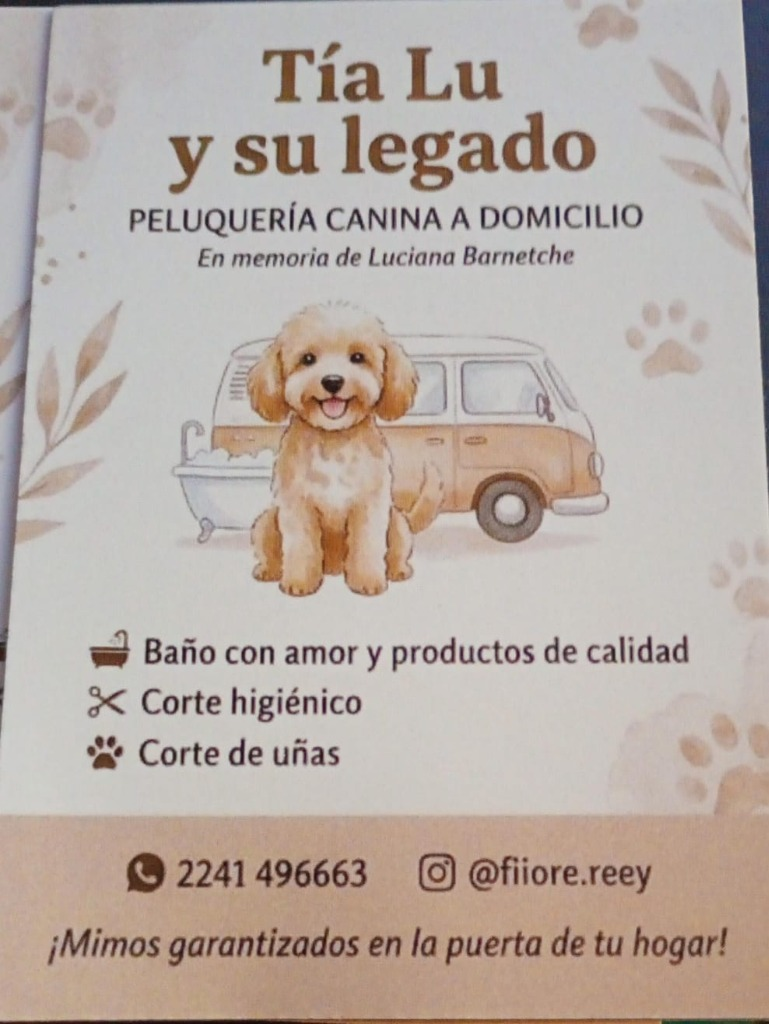
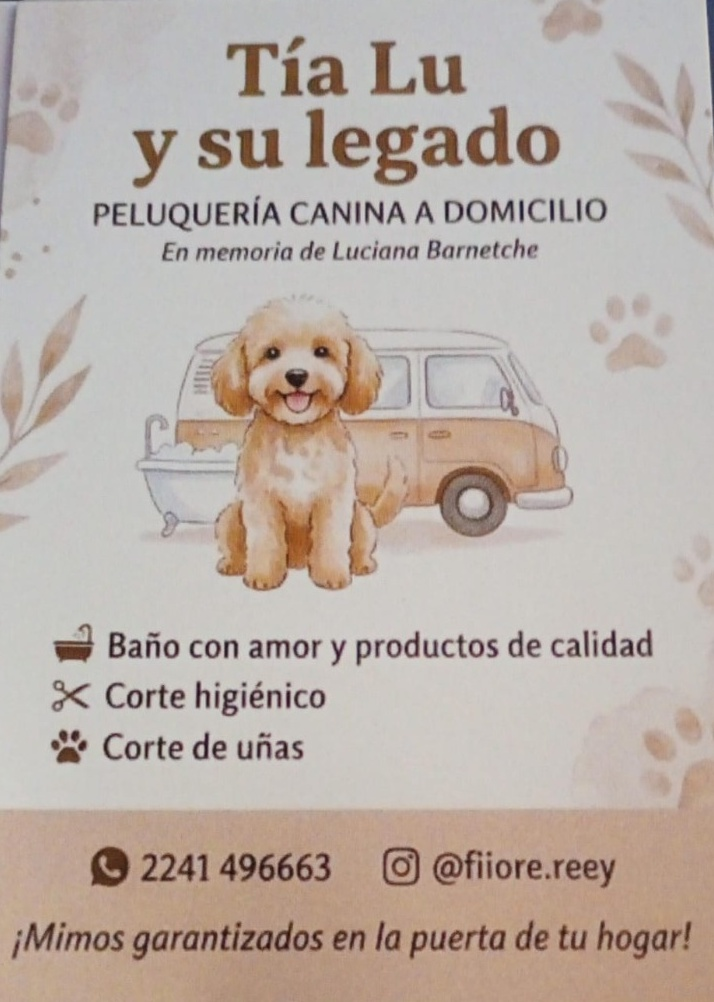
refactor: crop front card cleanly, remove back card, add discreet developer credit by Rolfi

diff --git a/index.html b/index.html
@@ -463,30 +463,24 @@
             </div>
           </div>
 
-          <!-- Muestra de la tarjeta conmemorativa real -->
+          <!-- Muestra de la tarjeta original (Frente recortado limpio) -->
           <div class="story-card-preview reveal-on-scroll">
             <div class="commemorative-card">
               <img 
                 id="commemorative-card-img" 
                 src="assets/tarjeta-frente.jpg" 
-                alt="Tarjeta conmemorativa de Tía Lu y su legado - Peluquería canina a domicilio"
+                alt="Tarjeta oficial de presentación de Tía Lu y su legado - Peluquería canina a domicilio"
                 width="400" 
-                height="530"
+                height="560"
                 loading="lazy"
               >
-              <p class="card-caption">Tarjeta física original de presentación y recordatorio de turnos</p>
+              <p class="card-caption">Tarjeta física de presentación</p>
             </div>
 
-            <!-- Botones interactivos para alternar entre frente y dorso de la tarjeta -->
+            <!-- Botón para ver en tamaño completo -->
             <div class="card-toggle-buttons">
-              <button type="button" id="btn-view-card-front" class="card-toggle-btn active">
-                Ver Frente
-              </button>
-              <button type="button" id="btn-view-card-back" class="card-toggle-btn">
-                Ver Dorso con Texto
-              </button>
-              <button type="button" id="btn-open-card-modal" class="card-toggle-btn" style="background-color: var(--color-peach-light);">
-                🔍 Ampliar
+              <button type="button" id="btn-open-card-modal" class="card-toggle-btn" style="background-color: var(--color-peach-light); padding: 8px 22px; font-weight: 700;">
+                🔍 Ver tarjeta completa
               </button>
             </div>
           </div>
@@ -899,6 +893,12 @@
       <div class="footer-copy">
         <p>&copy; 2026 Tía Lu y su legado · Peluquería Canina a Domicilio. Todos los derechos reservados.</p>
         <p style="margin-top: 4px; font-size: 0.8rem;">Hecho con infinito amor por los animales 🐾</p>
+        <p class="developer-credit">
+          Desarrollo web by <strong>Rolfi</strong> · 
+          <a href="https://wa.me/5492241527357?text=Hola%20Rolfi%2C%20vi%20la%20p%C3%A1gina%20de%20T%C3%ADa%20Lu%20y%20su%20legado%20y%20quer%C3%ADa%20hacerte%20una%20consulta." target="_blank" rel="noopener noreferrer" class="dev-wa-link">
+            WhatsApp 2241 527357
+          </a>
+        </p>
       </div>
     </div>
   </footer>
@@ -914,14 +914,14 @@
   </a>
 
   <!-- ========================================================================
-       MODAL: VISOR DE TARJETA CONMEMORATIVA ORIGINAL
+       MODAL: VISOR DE TARJETA ORIGINAL
        ======================================================================== -->
   <div id="card-modal-overlay" class="modal-overlay" role="dialog" aria-modal="true" aria-labelledby="modal-card-title">
     <div class="modal-content-box">
       <button type="button" id="btn-close-card-modal" class="modal-close-btn" aria-label="Cerrar modal">&times;</button>
-      <h3 id="modal-card-title" style="font-size: 1.25rem; color: var(--color-brown-primary);">Tarjeta original de Luciana Barnetche</h3>
-      <img id="modal-card-img" src="assets/tarjeta-frente.jpg" alt="Tarjeta original ampliada" style="border-radius: var(--radius-md); max-height: 70vh; object-fit: contain;">
-      <p style="font-size: 0.85rem; color: var(--color-text-muted); text-align: center;">Podés alternar entre el frente y el dorso con los botones de la sección Nuestra Historia.</p>
+      <h3 id="modal-card-title" style="font-size: 1.25rem; color: var(--color-brown-primary);">Tarjeta oficial de Tía Lu y su legado</h3>
+      <img id="modal-card-img" src="assets/tarjeta-frente.jpg" alt="Tarjeta oficial de presentación ampliada" style="border-radius: var(--radius-md); max-height: 70vh; object-fit: contain;">
+      <p style="font-size: 0.85rem; color: var(--color-text-muted); text-align: center;">Peluquería canina a domicilio · En memoria de Luciana Barnetche</p>
     </div>
   </div>
 

diff --git a/js/app.js b/js/app.js
@@ -139,37 +139,19 @@ function initFaqAccordion() {
 }
 
 /**
- * 5. Visualizador de la Tarjeta Conmemorativa Física (Frente y Dorso)
+ * 5. Visualizador de la Tarjeta de Presentación (Frente ampliado)
  */
 function initCardViewer() {
   const cardImg = document.getElementById("commemorative-card-img");
-  const btnFront = document.getElementById("btn-view-card-front");
-  const btnBack = document.getElementById("btn-view-card-back");
   const btnOpenModal = document.getElementById("btn-open-card-modal");
   const modalOverlay = document.getElementById("card-modal-overlay");
   const modalCloseBtn = document.getElementById("btn-close-card-modal");
   const modalImg = document.getElementById("modal-card-img");
 
-  if (!cardImg || !btnFront || !btnBack) return;
-
-  const showFront = () => {
+  if (cardImg && CONFIG.images && CONFIG.images.cardFront) {
     cardImg.src = CONFIG.images.cardFront;
-    cardImg.alt = "Frente de la tarjeta de presentación de Tía Lu y su legado";
-    btnFront.classList.add("active");
-    btnBack.classList.remove("active");
     if (modalImg) modalImg.src = CONFIG.images.cardFront;
-  };
-
-  const showBack = () => {
-    cardImg.src = CONFIG.images.cardBack;
-    cardImg.alt = "Dorso de la tarjeta conmemorativa con emotivo texto sobre Luciana Barnetche";
-    btnBack.classList.add("active");
-    btnFront.classList.remove("active");
-    if (modalImg) modalImg.src = CONFIG.images.cardBack;
-  };
-
-  btnFront.addEventListener("click", showFront);
-  btnBack.addEventListener("click", showBack);
+  }
 
   if (btnOpenModal && modalOverlay && modalCloseBtn) {
     btnOpenModal.addEventListener("click", () => {

diff --git a/css/styles.css b/css/styles.css
@@ -1444,6 +1444,29 @@ p {
   color: var(--color-text-light);
 }
 
+.developer-credit {
+  margin-top: 10px;
+  font-size: 0.8rem;
+  color: var(--color-text-muted);
+  opacity: 0.85;
+}
+
+.developer-credit strong {
+  color: var(--color-brown-dark);
+}
+
+.dev-wa-link {
+  color: var(--color-text-muted);
+  text-decoration: underline;
+  text-underline-offset: 3px;
+  font-weight: 600;
+  transition: color var(--transition-fast);
+}
+
+.dev-wa-link:hover, .dev-wa-link:focus-visible {
+  color: var(--color-brown-dark);
+}
+
 /* --------------------------------------------------------------------------
    13. BOTÓN FLOTANTE DE WHATSAPP
    -------------------------------------------------------------------------- */

diff --git a/js/config.js b/js/config.js
@@ -36,7 +36,15 @@ const CONFIG = {
     // Podés cambiar esta ruta si tenés una nueva ilustración en PNG, SVG o JPG de alta resolución
     heroIllustration: "assets/ilustracion-cachorro.jpg",
     cardFront: "assets/tarjeta-frente.jpg",
-    cardBack: "assets/tarjeta-dorso.jpg",
+  },
+
+  // --------------------------------------------------------------------------
+  // 2.1 CRÉDITO DE DESARROLLO (DISCRETO)
+  // --------------------------------------------------------------------------
+  developer: {
+    name: "Rolfi",
+    whatsappRaw: "5492241527357",
+    whatsappFormatted: "2241 527357",
   },
 
   // --------------------------------------------------------------------------
